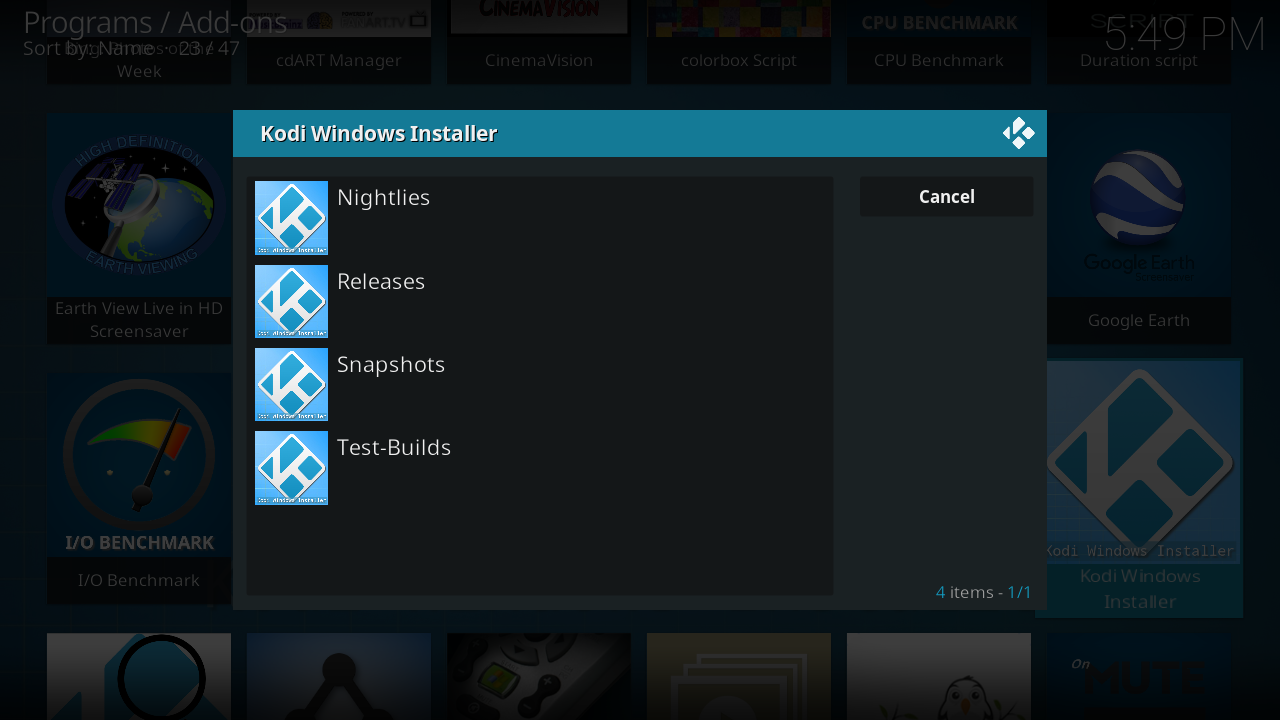
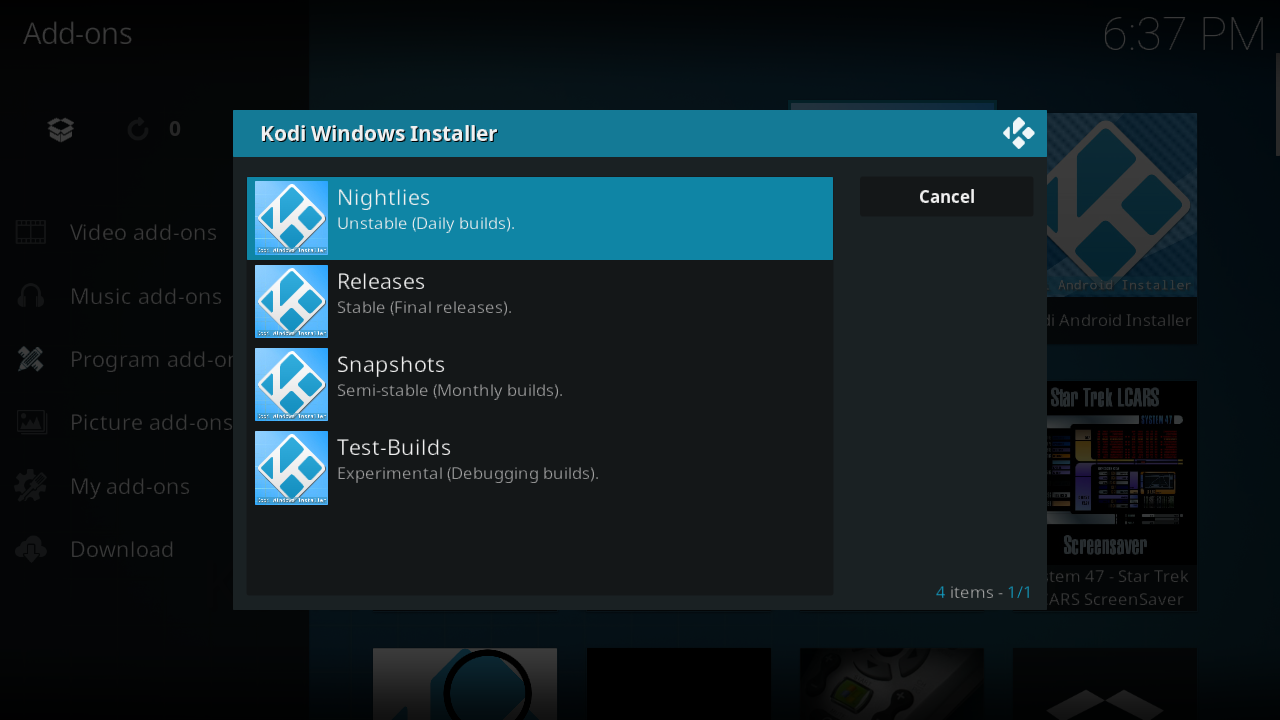
[script.kodi.windows.update] 1.0.3

diff --git a/script.kodi.windows.update/default.py b/script.kodi.windows.update/default.py
@@ -49,16 +49,7 @@ def log(msg, level=xbmc.LOGDEBUG):
     if DEBUG == False and level != xbmc.LOGERROR: return
     if level == xbmc.LOGERROR: msg += ' ,' + traceback.format_exc()
     xbmc.log(ADDON_ID + '-' + ADDON_VERSION + '-' + (msg.encode("utf-8")), level)
-    
-def getProperty(msg, cntrl=10000):
-    return xbmcgui.Window(cntrl).getProperty('%s.%s'%(ADDON_ID,msg))
-          
-def clearProperty(msg, cntrl=10000):
-    return xbmcgui.Window(cntrl).clearProperty('%s.%s'%(ADDON_ID,msg))
 
-def setProperty(msg, value, cntrl=10000):
-    return xbmcgui.Window(cntrl).setProperty('%s.%s'%(ADDON_ID,msg),value)
-    
 socket.setdefaulttimeout(TIMEOUT)
 class Installer(object):
     def __init__(self):
@@ -72,12 +63,12 @@ class Installer(object):
     def chkUWP(self):
         isUWP = len(fnmatch.filter(glob.glob(UWP_PATH),'*.*')) > 0
         # isUWP = True #Test
-        xbmcgui.Dialog().notification(ADDON_NAME, VERSION, ICON, 8000)
         if not isUWP: return isUWP
         else: return self.disable()
         
         
     def disable(self):
+        xbmcgui.Dialog().notification(ADDON_NAME, VERSION, ICON, 8000)
         if not xbmcgui.Dialog().yesno(ADDON_NAME, LANGUAGE(30009), LANGUAGE(30012)): return True 
         xbmc.executeJSONRPC('{"jsonrpc": "2.0", "method":"Addons.SetAddonEnabled","params":{"addonid":"%s","enabled":false}, "id": 1}'%(ADDON_ID))
         xbmcgui.Dialog().notification(ADDON_NAME, LANGUAGE(30011), ICON, 4000)
@@ -114,7 +105,7 @@ class Installer(object):
         for idx, item in enumerate(BUILD_OPT): tmpLST.append(xbmcgui.ListItem(item.title(),BUILD_DEC[idx],ICON))
         select = xbmcgui.Dialog().select(ADDON_NAME, tmpLST, preselect=-1, useDetails=True)
         if select < 0: return #return on cancel.
-        return  WIND_URL%(BUILD_OPT[select].lower().replace('//','/'),PLATFORM)
+        return WIND_URL%(BUILD_OPT[select].lower().replace('//','/'),PLATFORM)
             
             
     def buildItems(self, url):
@@ -124,10 +115,12 @@ class Installer(object):
             try: #folders
                 if 'uwp' in item.lower(): continue #ignore UWP builds
                 label, label2 = re.compile("(.*?)/-(.*)").match(item).groups()
-                yield (xbmcgui.ListItem(label,'',ICON))
+                if label == PLATFORM: label2 = LANGUAGE(30014)%PLATFORM
+                else: label2 = '' #Don't use time-stamp for folders
+                yield (xbmcgui.ListItem(label.strip(),label2.strip(),ICON))
             except: #files
                 label, label2 = re.compile("(.*?)\s(.*)").match(item).groups()
-                if label.endswith('.exe'): yield (xbmcgui.ListItem(label,label2,ICON))
+                if label.endswith('.exe'): yield (xbmcgui.ListItem(label.strip(),label2.strip(),ICON))
 
 
     def setLastPath(self, url, path):
@@ -147,7 +140,7 @@ class Installer(object):
             if len(items) == 0: break
             elif len(items) == 2 and not bypass and items[0].getLabel().startswith('Parent directory') and not items[1].getLabel().startswith('.exe'): select = 1 #If one folder bypass selection.
             else:
-                label  = url.replace(BASE_URL,'./')
+                label  = url.replace(BASE_URL,'./').replace('//','/')
                 select = xbmcgui.Dialog().select(label, items, preselect=-1, useDetails=True)
                 if select < 0: return #return on cancel.
             label  = items[select].getLabel()
@@ -169,7 +162,7 @@ class Installer(object):
         if xbmcvfs.exists(dest):
             if not xbmcgui.Dialog().yesno(ADDON_NAME, LANGUAGE(30004), dest.rsplit('/', 1)[-1], nolabel=LANGUAGE(30005), yeslabel=LANGUAGE(30006)): return False
         elif CLEAN and xbmcvfs.exists(self.lastPath): self.deleteEXE(self.lastPath)
-        return True
+        return False
         
         
     def deleteEXE(self, path):
